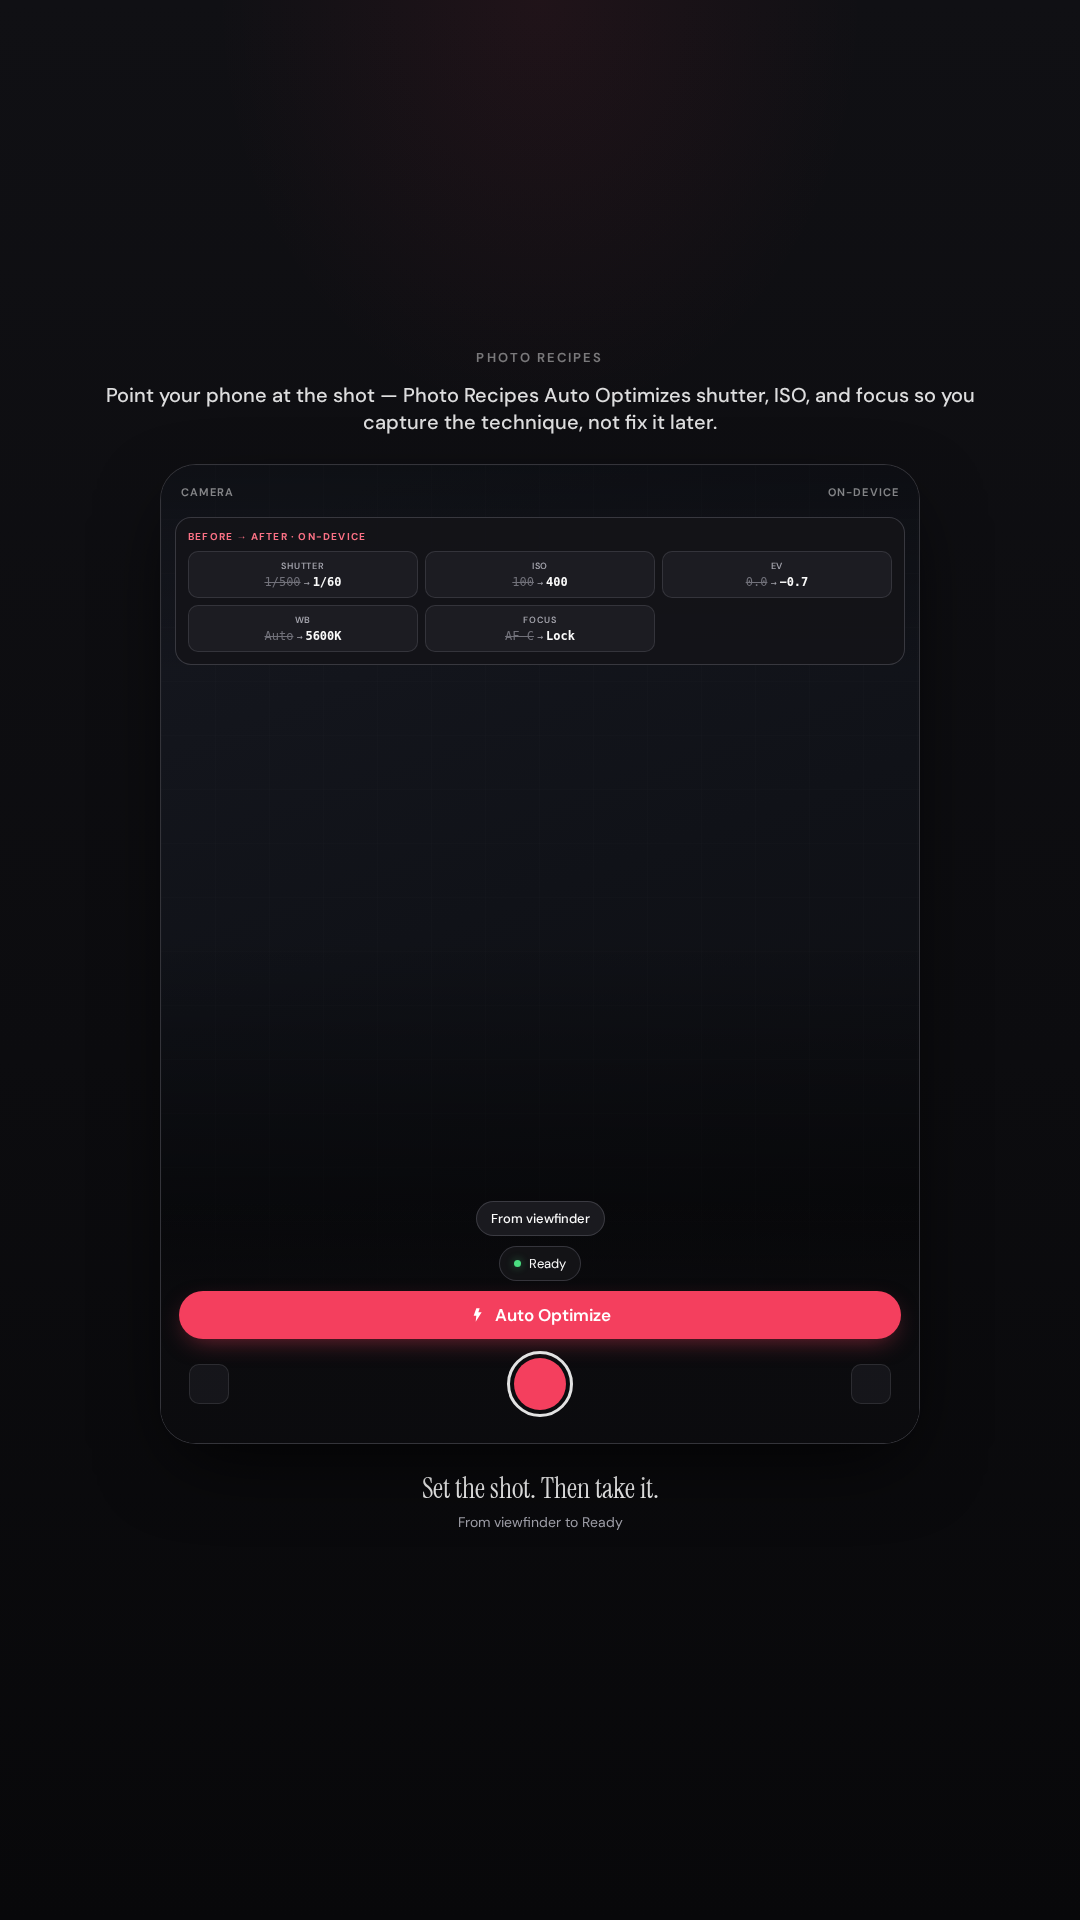
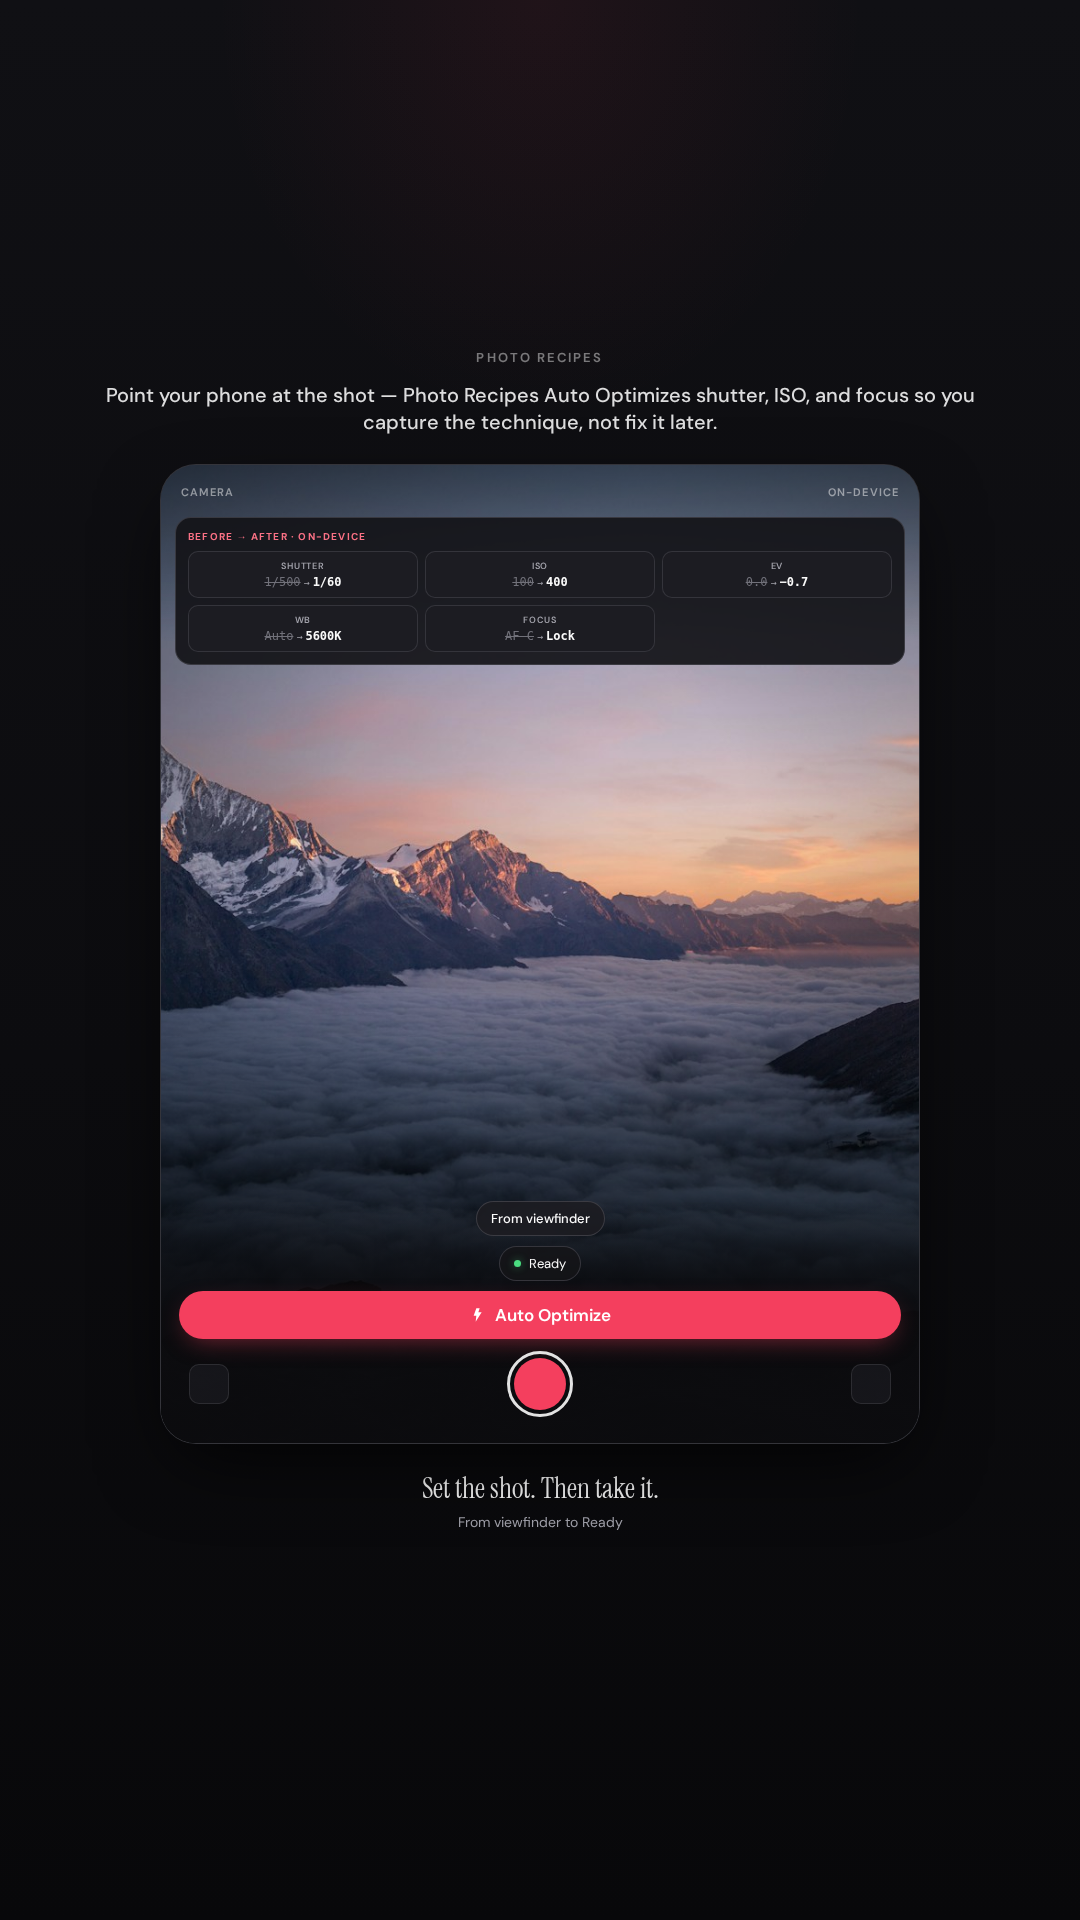
ads: elevator mountain viewfinder scene + source jpg
Replace empty-chrome elevator statics with real mountain landscape
viewfinder photo; note in elevator-pitch-v1 story.

Changed region(s): [[0.1222, 0.2188, 0.8556, 0.6562]]

diff --git a/docs/ads/elevator-pitch-v1.md b/docs/ads/elevator-pitch-v1.md
@@ -17,7 +17,7 @@ Point. Auto Optimize. Shoot · Capture the technique, not fix later
 
 ## Story (1–2 statics)
 
-1. Point camera / live viewfinder  
+1. Point camera / live viewfinder — real mountain landscape photo, not empty chrome  
 2. **From viewfinder** chip (lead) + rose **Auto Optimize** pill  
 3. Before→after chips: **shutter · ISO · EV · WB · focus** (NO aperture as applied)  
 4. Optional tiny Ready status  
